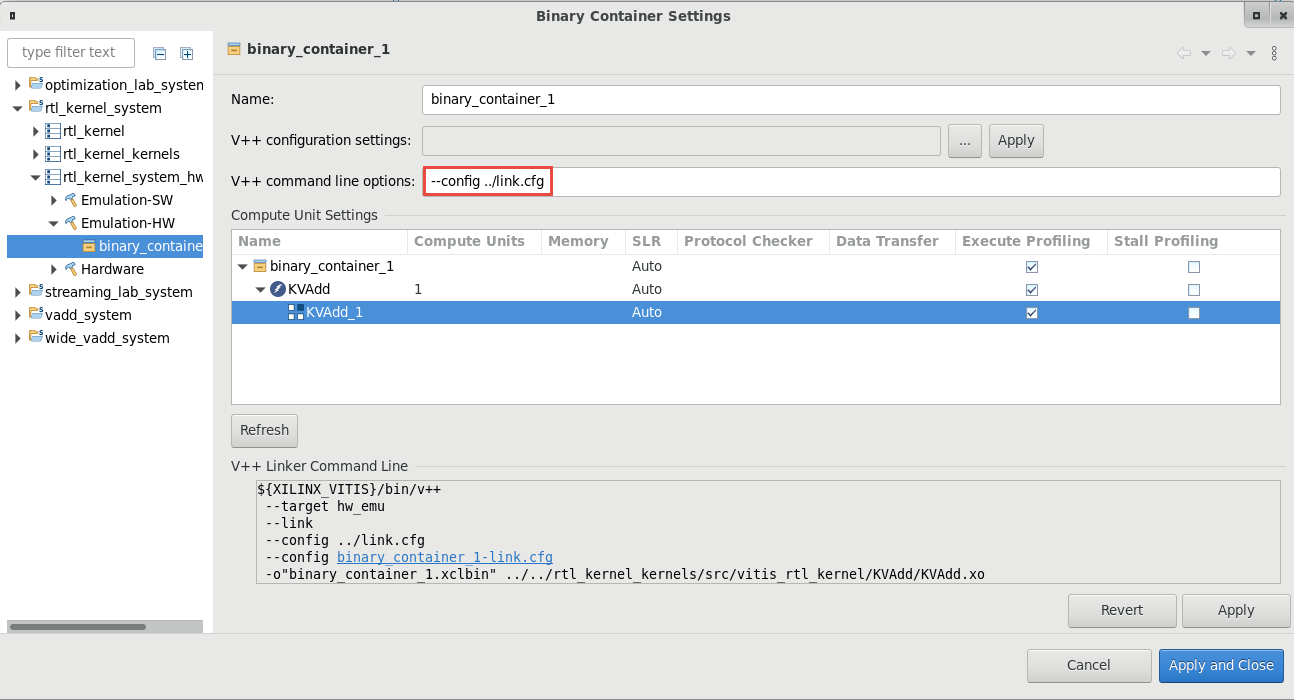
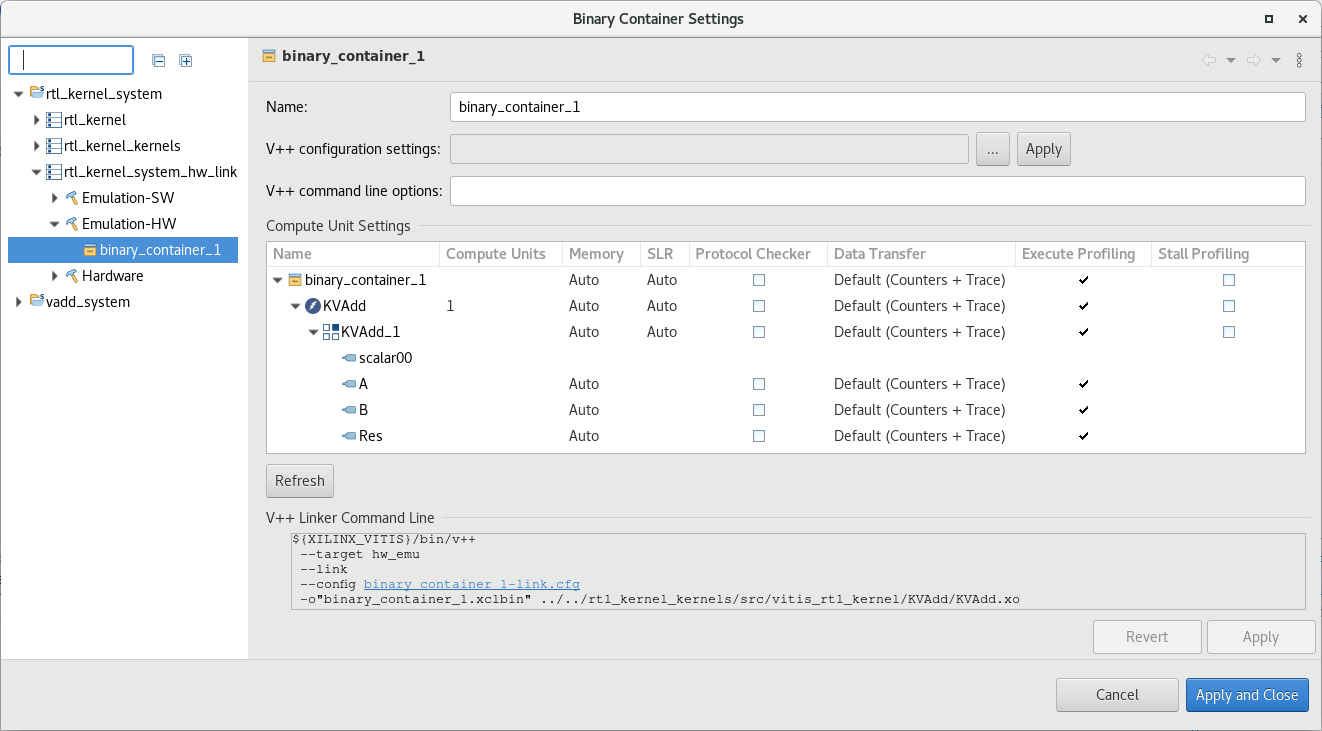
Address RTL Kernel missing parameters by refresing XO

diff --git a/docs/rtl_kernel_lab.md b/docs/rtl_kernel_lab.md
@@ -39,7 +39,7 @@ After completing this lab, you will be able to:
 
 1. Make sure the **rtl\_kernel.prj** under **rtl\_kernel\_system > _rtl\_kernel_** in the *Explorer* view is selected
 
-1. In the menu bar on top click **Xilinx > Launch RTL Kernel Wizard > RTL\_kernel\_kernels**  
+1. In the menu bar on top click **Xilinx > Launch RTL Kernel Wizard > rtl\_kernel\_kernels**
 
     Wizard will be opened showing welcome package
 
@@ -125,7 +125,7 @@ After completing this lab, you will be able to:
 
 ### Analyze the RTL kernel added to the Vitis project
 
-1. Expand the *src* folder under the **rtl\_kernel\_system > rtl\_kernel\_kernels**  
+1. Expand the *src* folder under the **rtl\_kernel\_system > rtl\_kernel\_kernels**
 
     Notice that the *vitis\_rtl\_kernel* folder  has been added to the project. Expanding this folder (*KVAdd*) shows the kernel (.xo) and a C++ file which have been automatically included
 
@@ -154,18 +154,13 @@ After completing this lab, you will be able to:
 
     ![](./images/rtlkernel_lab/hw_emu_selection.png)
 
-1. Using a text editor like *vi* or *gedit*, create **link.cfg** file with the following content in **~/workspace/rtl\_kernel\_system\_hw\_link** from the terminal window. It will enable `Counter + Trace` functionality
+1. In the Assistant View, expand *rtl\_kernel\_system > rtl\_kernel\_system\_hw\_link > Emulation-HW > binary\_container\_1* and right-click KVAdd [RTL KO] and select Refresh
 
-   ```
-   [profile]
-   data=KVAdd:KVAdd_1:A:all
-   data=KVAdd:KVAdd_1:B:all
-   data=KVAdd:KVAdd_1:Res:all
-   ```
+    ![](./images/rtlkernel_lab/kernelxo_refresh.png)
 
 1. In the *Assistant* view right click on *rtl\_kernel\_system > rtl\_kernel\_system\_hw\_link > Emulation-HW > binary\_container\_1* and select *Settings...*
 
-    Enter `--config ../link.cfg` in the *V++ command line options:* field. Make sure the `Execute Profiling` checkboxes are checked
+    Make sure the binary\_container\_1 is configured as shown in the image below
 
     ![](./images/rtlkernel_lab/hw_emu_kernel_config.png)
 
@@ -196,9 +191,9 @@ After completing this lab, you will be able to:
    INFO: Test completed successfully.
    INFO::[ Vitis-EM 22 ] [Time elapsed: 0 minute(s) 30 seconds, Emulation time: 0.151515 ms]
    Data transfer between kernel(s) and global memory(s)
-   KVAdd_1:m00_axi-DDR[1]          RD = 16.000 KB              WR = 16.000 KB       
-   KVAdd_1:m01_axi-DDR[1]          RD = 16.000 KB              WR = 16.000 KB       
-   KVAdd_1:m02_axi-DDR[1]          RD = 16.000 KB              WR = 16.000 KB   
+   KVAdd_1:m00_axi-DDR[1]          RD = 16.000 KB              WR = 16.000 KB
+   KVAdd_1:m01_axi-DDR[1]          RD = 16.000 KB              WR = 16.000 KB
+   KVAdd_1:m02_axi-DDR[1]          RD = 16.000 KB              WR = 16.000 KB
    ```
 
 1. In the *Assistant* view, expand **rtl\_kernel\_system > rtl\_kernel > Emulation-HW > SystemDebugger\_rtl\_kernel\_system\_rtl\_kernel**, and double-click on **Run Summary (xclbin)**
@@ -239,7 +234,9 @@ After completing this lab, you will be able to:
 
    ```sh
    mkdir ~/workspace/rtl_kernel/Hardware
-   cp ~/xup_compute_acceleration/solutions/rtl_kernel/* ~/workspace/rtl_kernel/Hardware/. 
+   mkdir ~/workspace/rtl_kernel_system/Hardware
+   cp ~/xup_compute_acceleration/solutions/rtlkernel_lab/* ~/workspace/rtl_kernel/Hardware/
+   cp ~/xup_compute_acceleration/solutions/rtlkernel_lab/binary_container_1.awsxclbin ~/workspace/rtl_kernel_system/Hardware/binary_container_1.xclbin
    chmod +x ~/workspace/rtl_kernel/Hardware/rtl_kernel
    ```
 

diff --git a/docs/Vitis_intro-2.md b/docs/Vitis_intro-2.md
@@ -45,7 +45,7 @@ This lab is a continuation of previous *Introduction to Vitis* lab. You ended th
 
     ![](images/Vitis_intro/sw_emu_application_timeline.png)
 
-1. When finished, close the analyzer by clicking `File > Exit` and clicking **OK**
+1. When finished, close the Vitis Analyzer by clicking `File > Exit` and clicking **OK**
 
 ### Build and run hardware emulation
 
@@ -175,14 +175,16 @@ This lab is a continuation of previous *Introduction to Vitis* lab. You ended th
 
    ```sh
    cp binary_container_1.awsxclbin ~/workspace/vadd/Hardware 
-   cp ~/xup_compute_acceleration/sources/xrt.ini ~/workspace/vadd/Hardware/.
+   cp ~/xup_compute_acceleration/sources/xrt.ini ~/workspace/vadd/Hardware/
    ```
 
 1. If you have not built the hardware yourself then copy the provided prebuilt solution files using the following commands:
 
    ```sh
    mkdir ~/workspace/vadd/Hardware
-   cp ~/xup_compute_acceleration/solutions/vadd/* ~/workspace/vadd/Hardware/. 
+   mkdir ~/workspace/vadd_system/Hardware
+   cp ~/xup_compute_acceleration/solutions/vitis_intro_lab/* ~/workspace/vadd/Hardware/
+   cp ~/xup_compute_acceleration/solutions/vitis_intro_lab/binary_container_1.awsxclbin ~/workspace/vadd_system/Hardware/binary_container_1.xclbin
    chmod +x ~/workspace/vadd/Hardware/vadd
    ```
 
